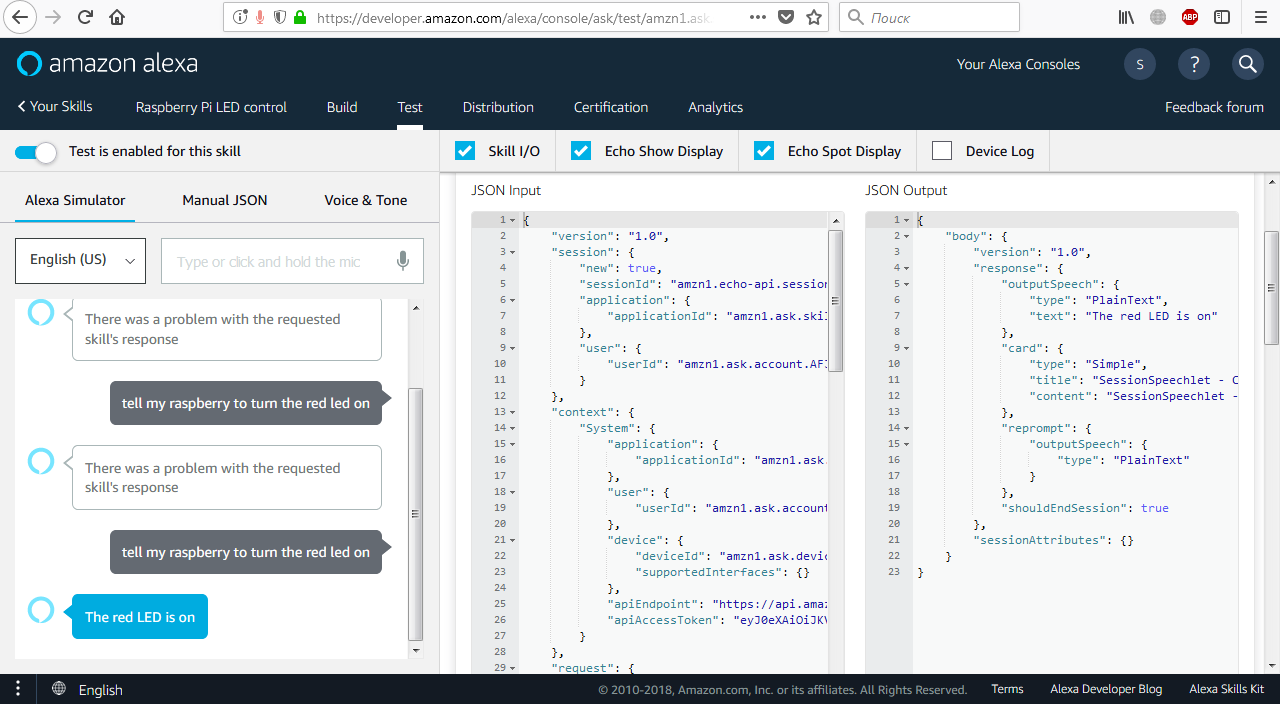
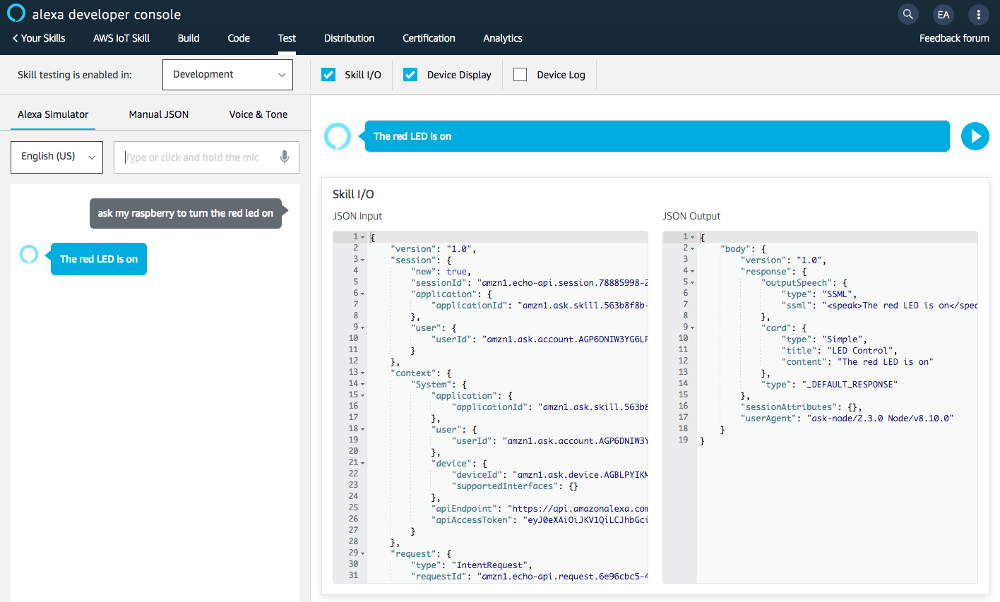
updated Lambda/IoT testing page

diff --git a/_posts/2019-04-25-14-Test-Connection.md b/_posts/2019-04-25-14-Test-Connection.md
@@ -6,20 +6,20 @@ layout: nil
 ---
 ### Testing the communication and cooperation between services
 
-Let's switch to the **Alexa Skill** page and go the **"Test"** page from the menu in the top of the page:
+Let's switch back to the **Alexa Skill** page and go the **"Test"** page from the menu in the top of the page:
+
 ![alt text](/assets/58 - Test page of Alexa skill.png)   
-This time, instead of just launching the skill, let's give a command to try to control the LED.
-Enable the toggle **"Test is enabled for this skill"**. Now we can perform the test. You can press the microphone icon and say your request or simply type the request in the field to the left of the microphone. Let's stick with the second option and type *"tell my raspberry to turn the red led on"*, and then press **"Enter"** on the keyboard.
-If you have an error like the one in the image below, you need to increase the timeout:
-![alt text](/assets/59 - Error in skill response.png)    
-To do this, return to the **Lambda function** page and scroll down until you see the following:
-![alt text](/assets/60 - Increasing lambda function timeout.png)   
-Here increase timeout from 3 seconds to 5 seconds or even more and repeat your attempt.
-Finally, if everything is good, you should see something like that:
+
+This time, instead of just launching the skill, let's give a command to try to control the LED. In the skill simulator input, type *"tell my raspberry to turn the red led on"*, and then press **"Enter"** on the keyboard. 
+Finally, if everything is good, you should see something like this:
+
 ![alt text](/assets/61 - Successful testing.png)    
+
 You can see the JSON Input ' this is the request to the Lambda function, and JSON Output ' this is response from the Lambda function to the Alexa Skill.
 Let's now see how invocation of this function affects the **Thing Shadow**. Let's switch to the **IoT Thing** page and select **"Shadow"** in the menu in the left part of the page. You will see something like this:
+
 ![alt text](/assets/62 - IoT Thing Shadow.png)   
+
 If you can see all of this, that means that everything was set up correctly and all Amazon services work fine. 
 You also can ask Alexa about the switch state *"Alexa, ask my raspberry about the switch state"*. But unless you don't have your Raspberry Pi set up, it will say that the state is undefined, as you can see, there is no `"switch"` key in the Shadow state yet.
 Now, we need to setup the IoT software on the Raspberry Pi that will read the Shadow state and change the LEDs states accordingingly, and also to update the shadow state when the switch changes its state.
